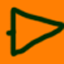
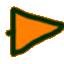
ships rotate in the direction of their movement

diff --git a/H2G2/src/com/baptemedujeu/minild42/Spaceship.java b/H2G2/src/com/baptemedujeu/minild42/Spaceship.java
@@ -71,5 +71,7 @@ public class Spaceship implements DisplayedEntity, UpdatedEntity
 		pos.x = (float)(orbitCentre.x + Math.cos(orbitAngle)*orbitRadius);
 		pos.y = (float)(orbitCentre.y + Math.sin(orbitAngle)*orbitRadius);
 		sprite.setPosition(pos.x - sprite.getWidth()/2, pos.y - sprite.getHeight()/2);
+		
+		sprite.setRotation((float)(180*orbitAngle / Math.PI) + Math.signum(orbitSpeed)*90.0f);
 	}
 }

diff --git a/H2G2/src/com/baptemedujeu/minild42/Hitchhiker.java b/H2G2/src/com/baptemedujeu/minild42/Hitchhiker.java
@@ -86,8 +86,6 @@ public class Hitchhiker implements DisplayedEntity,UpdatedEntity, InputEntity {
 			var_playerpos.y = input.getY() ;
 			
 			Ray r = H2G2Game.camera.getPickRay(var_playerpos.x, var_playerpos.y);
-			
-			System.out.println(r.origin);
 
 			var_playerpos.x =r.origin.x ;
 			var_playerpos.y =r.origin.y ;
